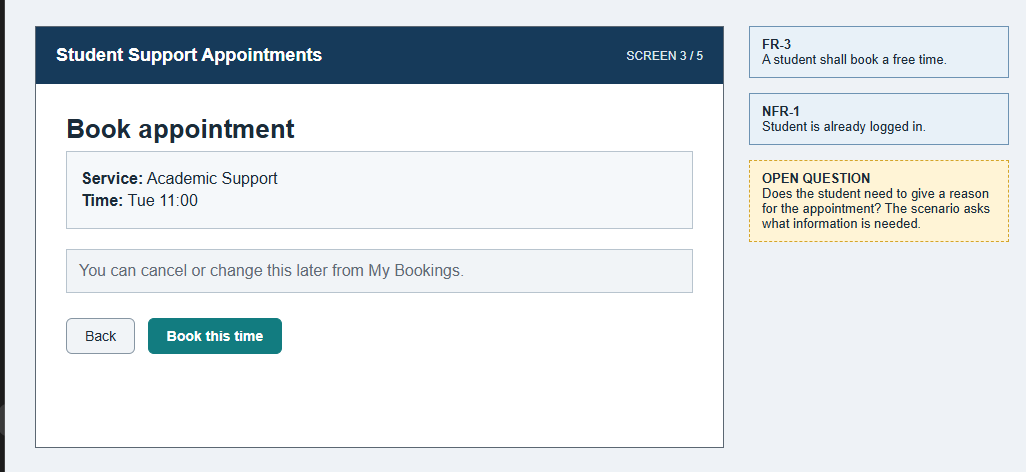
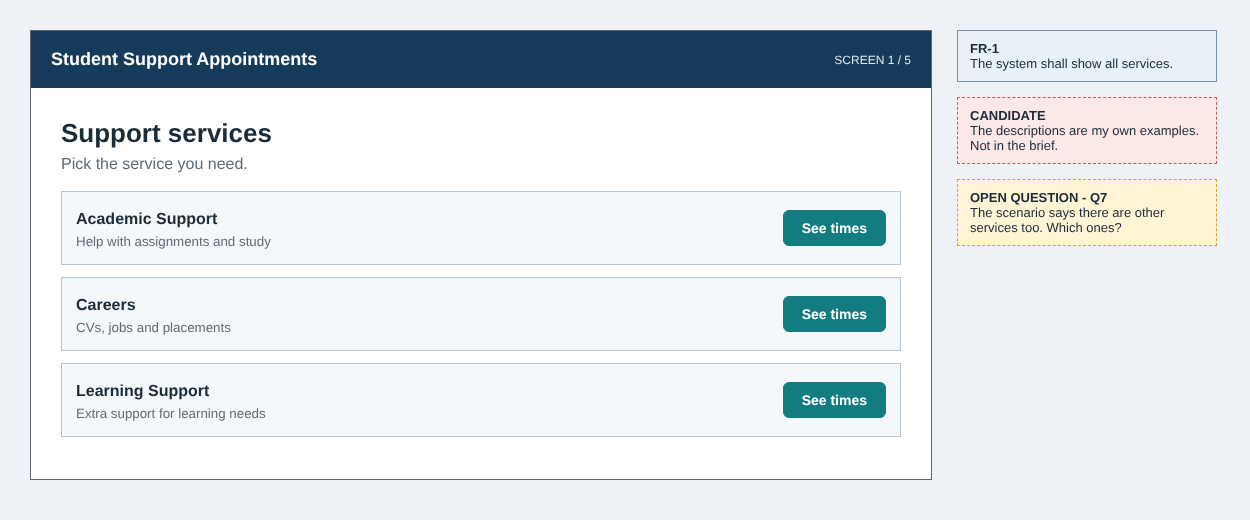
Fixed screen 1 showing the wrong screen and marked FR-4 as candidate on screen 4

Changed region(s): [[0.0, 0.0, 0.9981, 1.0]]

diff --git a/project/diagrams/screen1-services.html b/project/diagrams/screen1-services.html
@@ -2,7 +2,7 @@
 <html lang="en">
 <head>
 <meta charset="UTF-8">
-<title>Screen 3 - Book Appointment</title>
+<title>Screen 1 - View Services</title>
 <style>
 body { font-family: Arial, sans-serif; background: #eef2f6; margin: 0; padding: 30px; color: #1b2b38; }
 .layout { display: flex; gap: 25px; align-items: flex-start; }
@@ -12,39 +12,44 @@ body { font-family: Arial, sans-serif; background: #eef2f6; margin: 0; padding: 
 .header span { font-size: 12px; color: #dfe7ee; }
 .content { padding: 20px 30px 30px; }
 h1 { font-size: 26px; margin: 10px 0 6px; }
-.box { border: 1px solid #b8c4ce; background: #f5f8fa; padding: 14px; margin-bottom: 20px; }
-.box p { margin: 4px 0; }
-.info { background: #f1f4f7; border: 1px solid #b8c4ce; color: #5f6b76; padding: 12px; }
-.buttons { margin-top: 25px; }
-.btn { display: inline-block; padding: 9px 18px; border-radius: 6px; text-decoration: none; font-size: 14px; border: 1px solid #8796a3; background: #f1f4f7; color: #1b2b38; margin-right: 8px; }
+.sub { color: #5f6b76; margin: 0 0 18px; }
+.service { border: 1px solid #b8c4ce; background: #f5f8fa; padding: 14px; margin-bottom: 12px; display: flex; justify-content: space-between; align-items: center; }
+.service p { margin: 4px 0; }
+.service small { color: #5f6b76; }
+.btn { display: inline-block; padding: 9px 18px; border-radius: 6px; text-decoration: none; font-size: 14px; border: 1px solid #8796a3; background: #f1f4f7; color: #1b2b38; }
 .btn.primary { background: #127c80; border-color: #127c80; color: white; font-weight: bold; }
 .notes { width: 260px; flex-shrink: 0; }
 .note { padding: 10px 12px; font-size: 13px; margin-bottom: 15px; }
 .evidence { background: #e8f1f8; border: 1px solid #6d93b3; }
 .question { background: #fff4d6; border: 1px dashed #d4a52a; }
+.candidate { background: #fde8e8; border: 1px dashed #c25b5b; }
 </style>
 </head>
 <body>
 <div class="layout">
   <div class="screen">
-    <div class="header"><b>Student Support Appointments</b><span>SCREEN 3 / 5</span></div>
+    <div class="header"><b>Student Support Appointments</b><span>SCREEN 1 / 5</span></div>
     <div class="content">
-      <h1>Book appointment</h1>
-      <div class="box">
-        <p><b>Service:</b> Academic Support</p>
-        <p><b>Time:</b> Tue 11:00</p>
+      <h1>Support services</h1>
+      <p class="sub">Pick the service you need.</p>
+      <div class="service">
+        <div><p><b>Academic Support</b></p><small>Help with assignments and study</small></div>
+        <a class="btn primary" href="screen2-times.html">See times</a>
       </div>
-      <div class="info">You can cancel or change this later from My Bookings.</div>
-      <div class="buttons">
-        <a class="btn" href="screen2-times.html">Back</a>
-        <a class="btn primary" href="screen5-done.html">Book this time</a>
+      <div class="service">
+        <div><p><b>Careers</b></p><small>CVs, jobs and placements</small></div>
+        <a class="btn primary" href="screen2-times.html">See times</a>
+      </div>
+      <div class="service">
+        <div><p><b>Learning Support</b></p><small>Extra support for learning needs</small></div>
+        <a class="btn primary" href="screen2-times.html">See times</a>
       </div>
     </div>
   </div>
   <div class="notes">
-    <div class="note evidence"><b>FR-3</b><br>A student shall book a free time.</div>
-    <div class="note evidence"><b>NFR-1</b><br>Student is already logged in.</div>
-    <div class="note question"><b>OPEN QUESTION</b><br>Does the student need to give a reason for the appointment? The scenario asks what information is needed.</div>
+    <div class="note evidence"><b>FR-1</b><br>The system shall show all services.</div>
+    <div class="note candidate"><b>CANDIDATE</b><br>The descriptions are my own examples. Not in the brief.</div>
+    <div class="note question"><b>OPEN QUESTION - Q7</b><br>The scenario says there are other services too. Which ones?</div>
   </div>
 </div>
 </body>

diff --git a/project/diagrams/screen4-taken.html b/project/diagrams/screen4-taken.html
@@ -39,7 +39,7 @@ h1 { font-size: 26px; margin: 10px 0 6px; }
   </div>
   <div class="notes">
     <div class="note evidence"><b>FR-4</b><br>The system shall stop double bookings.</div>
-    <div class="note candidate"><b>ASSUMPTION</b><br>FR-4 is my assumption. The scenario does not say double booking is a problem.</div>
+    <div class="note candidate"><b>CANDIDATE</b><br>FR-4 is my own idea. The scenario does not say double booking is a problem.</div>
     <div class="note question"><b>WHEN THIS SHOWS</b><br>Instead of Screen 5, if the time was taken while booking. Matches narrative step 4 and the activity diagram "Is there free time? no".</div>
   </div>
 </div>
